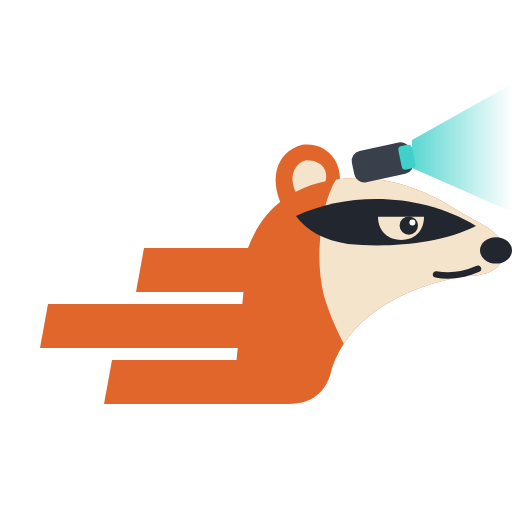
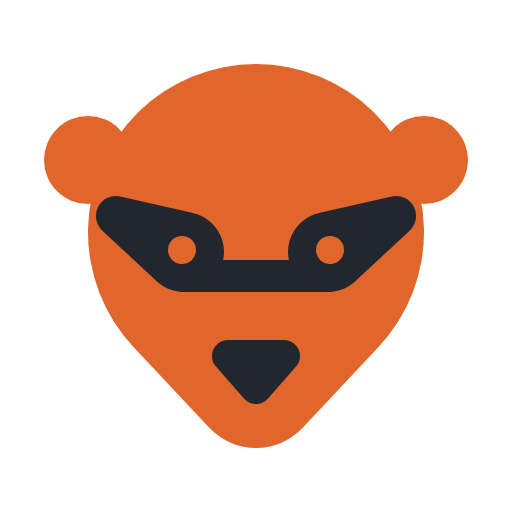
docs(assets): flat geometric ferret mark and upright monoline wordmark
Replace the illustrated ferret (headlamp, speed lines, cream face) with a
frontal, two-colour mark: a copper head built from two circle hulls, round
ears, a swept charcoal domino mask with copper eyes and a nose. Every
charcoal shape sits inside the copper, so one mark works on light and dark.
favicon.svg redraws it on a 32-unit pixel grid for 16 to 48 px.

The wordmark is now upright monoline lowercase, stroke 8 on a 40-unit
x-height with rounded-rectangle bowls, still copper "fast" + ink "vol"
and outlined paths only. build.py gets the new lockup geometry and PNG
sizes; the chart and badges are unchanged (same copper).

diff --git a/docs/assets/build.py b/docs/assets/build.py
@@ -2,8 +2,8 @@
 """Build the README artwork in docs/assets from its sources.
 
 Hand-written sources (edit these):
-  mascot.svg     the ferret mark: square, transparent, works from 32 px up
-  favicon.svg    the ferret bust, simplified for 16 to 48 px
+  mascot.svg     the ferret mark: a flat, frontal masked face; square, transparent, 32 px and up
+  favicon.svg    the same face redrawn on a 32-unit pixel grid for 16 to 48 px
   wordmark.svg   the "fastvol" lettering for light backgrounds
 
 Generated by this script (do not edit by hand):
@@ -79,12 +79,14 @@ def build_logos():
     mascot = svg_body(read("mascot.svg"))
     for name, ink in (("logo.svg", INK_LIGHT), ("logo-dark.svg", INK_DARK)):
         words = svg_body(wordmark.replace(INK_LIGHT, ink))
-        write(name, f'''<svg xmlns="http://www.w3.org/2000/svg" viewBox="4 16 400 92" role="img" aria-label="fastvol">
+        # The mark (box x 11..117, y 16..112) at 0.74 is centred on the wordmark's ascender-to-
+        # baseline span (y 37..100), 16 units of air before the "f" crossbar, 8 of margin all round.
+        write(name, f'''<svg xmlns="http://www.w3.org/2000/svg" viewBox="-8 25 367 87" role="img" aria-label="fastvol">
 {GENERATED}
-<g id="mascot">
+<g id="mascot" transform="translate(-8.14 21.2) scale(.74)">
 {mascot}
 </g>
-<g id="wordmark" transform="translate(144 0)">
+<g id="wordmark" transform="translate(100 0)">
 {words}
 </g>
 </svg>
@@ -328,8 +330,8 @@ def render_pngs():
         ("png/favicon-16.png", "favicon.svg", 16, 16, "transparent", 1),
         ("png/favicon-32.png", "favicon.svg", 32, 32, "transparent", 1),
         ("png/favicon-48.png", "favicon.svg", 48, 48, "transparent", 1),
-        ("png/logo.png", "logo.svg", 800, 184, "#ffffff", 2),
-        ("png/logo-dark.png", "logo-dark.svg", 800, 184, "#0d1117", 2),
+        ("png/logo.png", "logo.svg", 734, 174, "#ffffff", 2),
+        ("png/logo-dark.png", "logo-dark.svg", 734, 174, "#0d1117", 2),
         ("png/benchmark.png", "benchmark.svg", None, None, "transparent", 2),
         ("png/benchmark-dark.png", "benchmark-dark.svg", None, None, "transparent", 2),
     )
